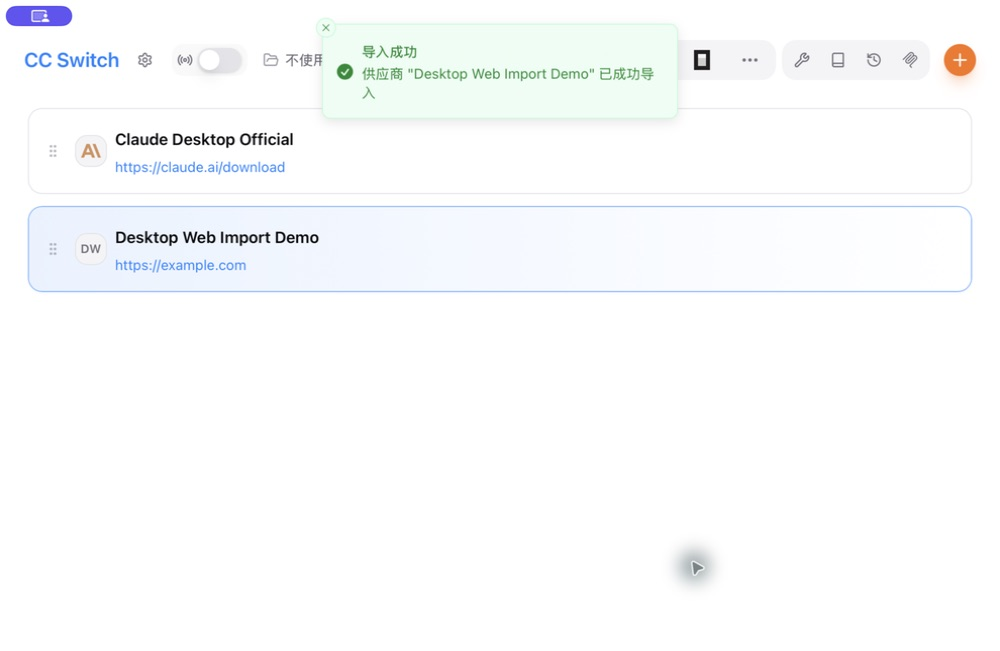
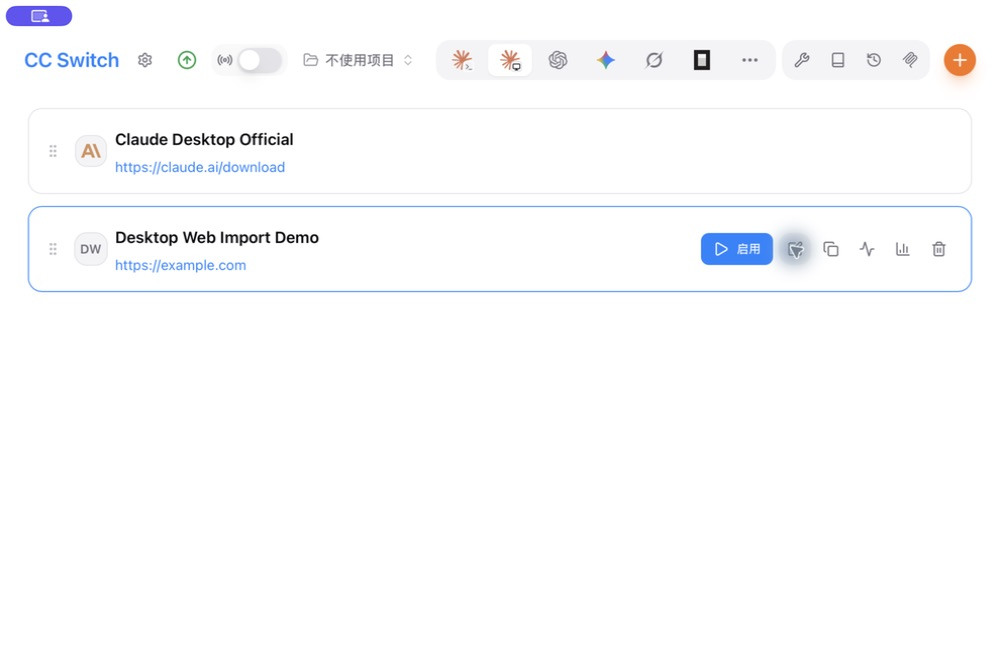
docs: add manual desktop verification evidence for PR 7587

diff --git a/README.md b/README.md
@@ -1,6 +1,6 @@
 # PR #7587 — Manual desktop verification
 
-- Source commit: `20323d0abc4290360ed9f90cd341f9a77e887656`.
+- Source commit: `7b953f0`.
 - Platform: macOS; CC Switch 3.20.3 debug app built from the PR.
 - Build-only overrides: product name `CC Switch PR 7587`, bundle identifier `com.ccswitch.pr7587verification`, updater artifacts disabled. No source changes for the verification build.
 - Isolated data via the existing `CC_SWITCH_TEST_HOME` environment variable.
@@ -11,10 +11,10 @@
 1. A provider link using `app=claudedesktop` opened the actual Tauri import confirmation dialog and was normalized to Claude Desktop.
 2. Haiku, Sonnet and Opus models from inline Base64 JSON appeared in the dialog.
 3. The inline environment configuration appeared in the details panel, with the dummy API token masked and `CUSTOM_ENV` visible.
-4. Clicking Import displayed a success notification and immediately refreshed the Claude Desktop provider list.
-5. Read-only inspection of the isolated SQLite database confirmed the provider was stored under `claude-desktop`, metadata used `claudeDesktopMode=direct`, the URL API key overrode the inline API key, and `CUSTOM_ENV` was preserved.
+4. Clicking Import displayed a success notification and immediately refreshed the Claude Desktop provider list. The imported card offers Enable; it is not automatically selected.
+5. Read-only inspection of the isolated SQLite database confirmed the provider was stored under `claude-desktop`, metadata used `claudeDesktopMode=direct`, the URL API key overrode the inline API key, and `CUSTOM_ENV` was preserved. Three model routes were persisted, the provider was not current, and no Desktop 3P profile was created. The actual edit form shows all three model entries.
 
-Only dummy credentials and `api.example.com` were used. No live provider connectivity or inference was tested. `enabled=false` was supplied; the existing first-provider selection behavior may still mark the first imported provider current in a fresh profile.
+Only dummy credentials and `api.example.com` were used. No live provider connectivity or inference was tested. `enabled=false` was supplied. Regression tests also cover omitted `enabled`, explicit activation and generated `inferenceModels`, proxy model routing, and `[1M]` conversion. Full Rust results: 3,050 passed, 9 ignored. CI-equivalent strict Clippy passed.
 
 ## Screenshots
 
@@ -22,4 +22,6 @@ Only dummy credentials and `api.example.com` were used. No live provider connect
 
 ![Inline environment preview](02-inline-config-preview.png)
 
-![Successful import and refreshed Desktop provider list](03-import-success.png)
+![Imported provider remains inactive with an Enable button](03-import-success.png)
+
+![Persisted model routes in the Desktop edit form](04-desktop-model-routes.png)
